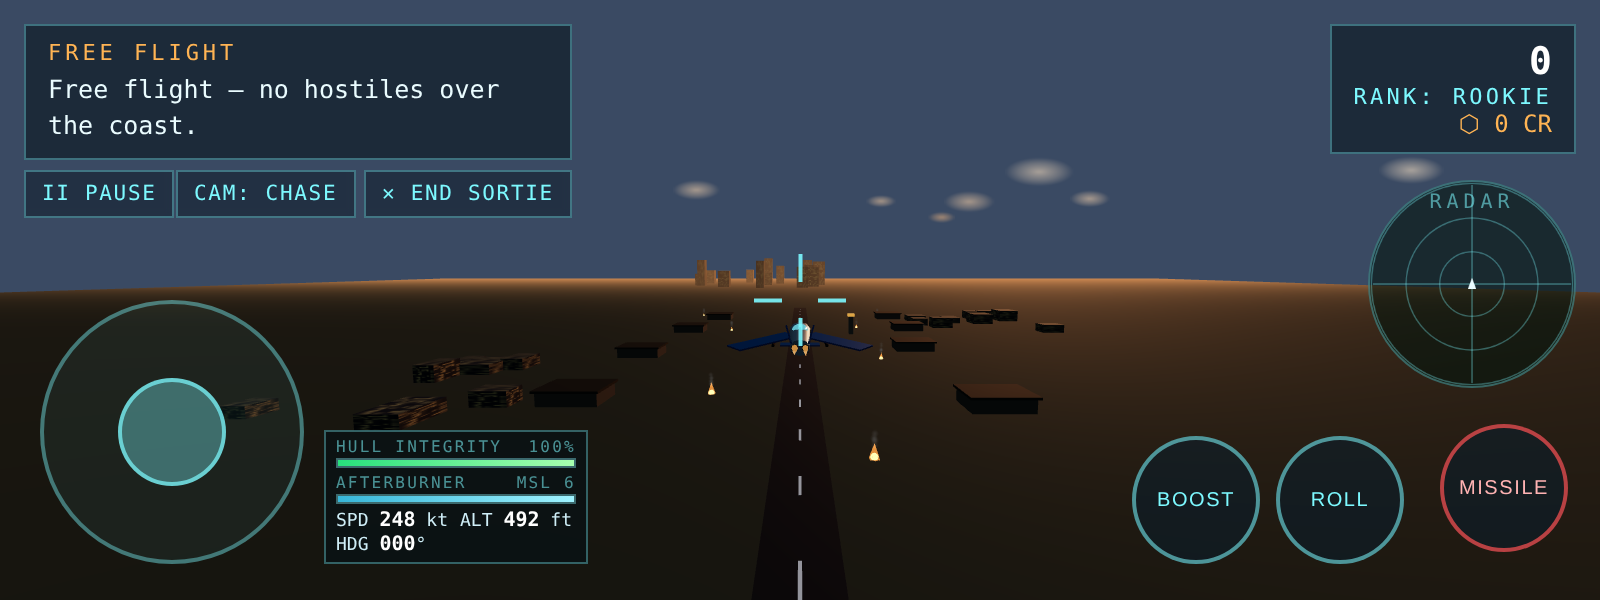
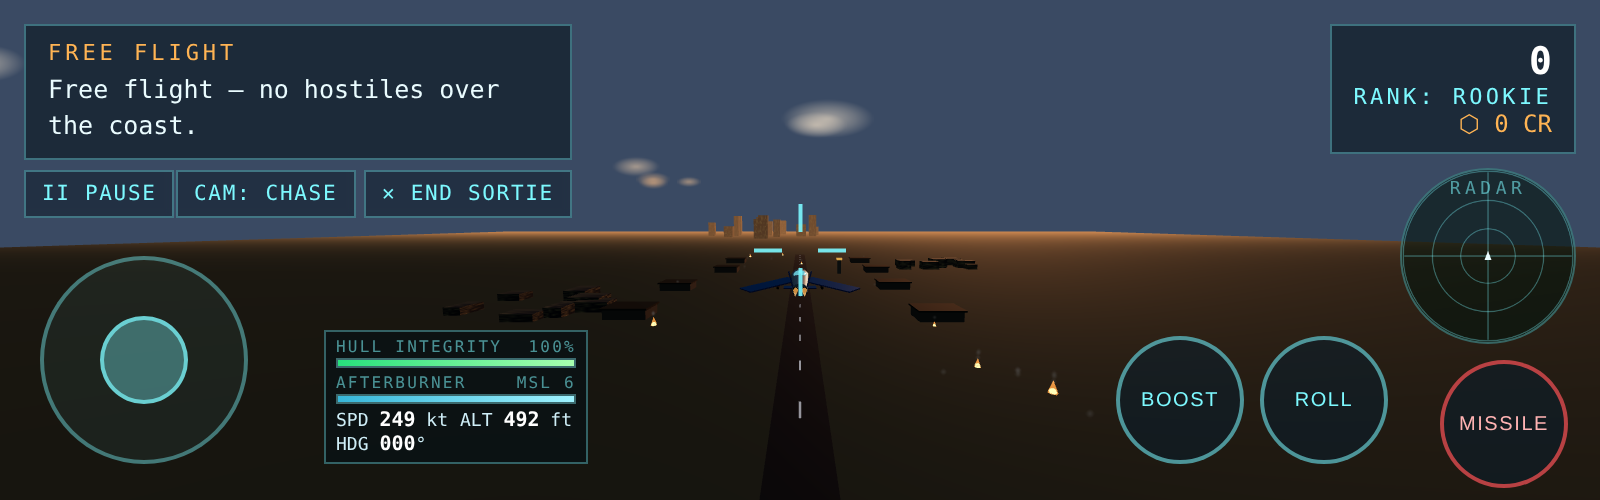
Touch compact mode for very short viewports (<=300px, e.g. browser URL bar visible): smaller joystick (104px) and radar (88px), missile at top:180, roll/boost shifted left — nothing overlaps or clips

diff --git a/index.html b/index.html
@@ -190,6 +190,16 @@
   body.touch #btn-missile{top:212px;bottom:auto;right:16px}
   body.touch #btn-roll{right:98px;bottom:18px}
   body.touch #btn-boost{right:170px;bottom:18px}
+  @media(max-height:300px){
+    body.touch #stick-base{width:104px;height:104px}
+    body.touch #stick-knob{width:44px;height:44px}
+    body.touch #radar-wrap{top:84px;width:88px;height:88px}
+    body.touch #radar{width:88px;height:88px}
+    body.touch #radar-label{font-size:9px}
+    body.touch #btn-missile{top:180px}
+    body.touch #btn-roll{right:106px}
+    body.touch #btn-boost{right:178px}
+  }
   body.touch #autofire-tag{display:none}
 </style>
 <script type="importmap">
